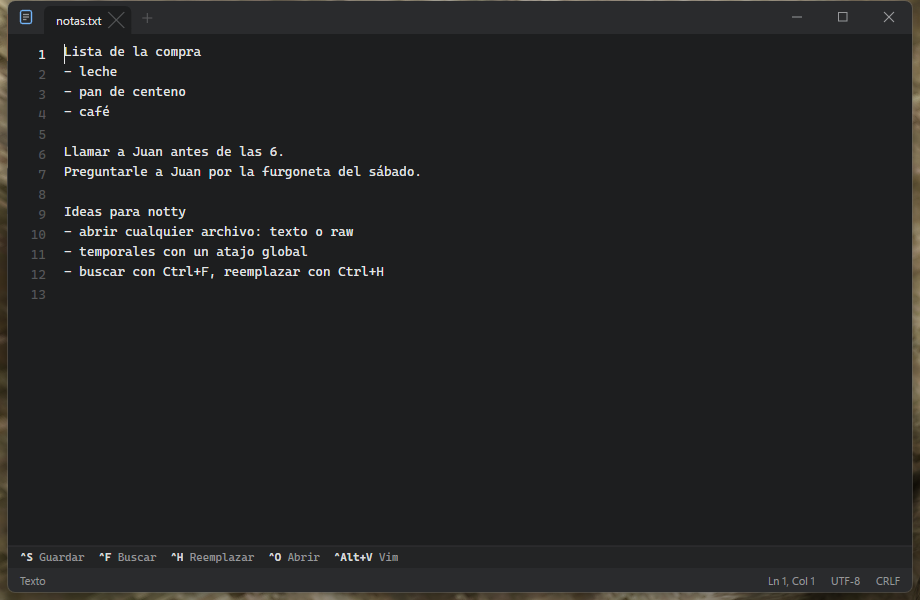
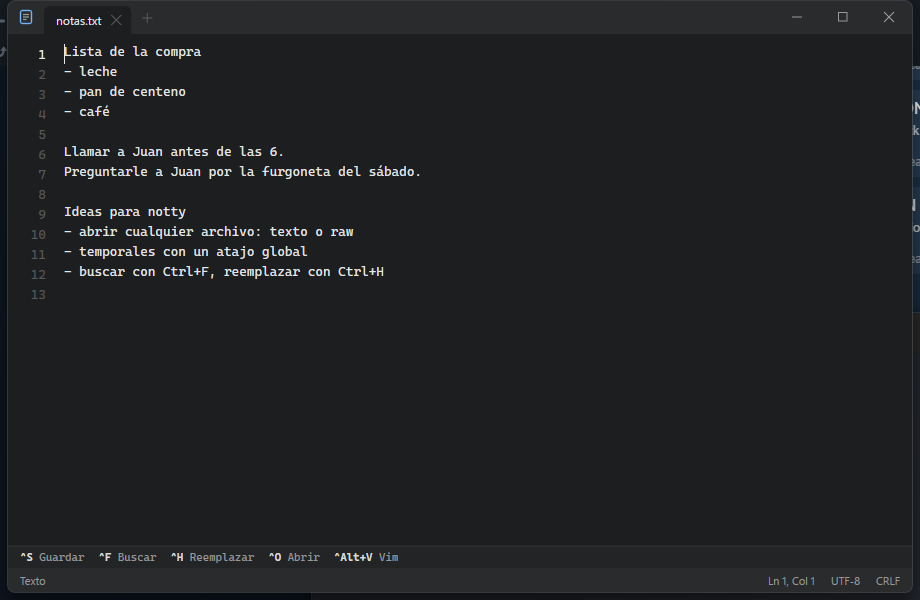
chore(ui): repaso visual contra la maqueta
Task 12 del plan: cargo test --workspace (234 tests), cargo clippy
--workspace --all-targets -- -D warnings y cargo build --release
--workspace limpios.

Arreglo encontrado en la revisión: la línea de comandos fusionada
(Zen) concatenaba Ln/Col, codificación y EOL sin separador «· » entre
el primer y el segundo campo, y dibujaba un separador sobrante fuera
del borde derecho (bucle en orden inverso con la condición `i > 0` en
vez de `i + 1 < fields.len()`, en draw_status_normal/render.rs).
Corregido y verificado con captura de Zen.

Escenarios capturados con tools/shot-app.ps1 y comparados a ojo contra
docs/mockups/ref/*.png, guardados en docs/mockups/app/<escenario>.png:
moderna-oscuro, moderna-claro, sucio, clasica, zen (separador
corregido), clickme, vim-normal, vim-insert, buscar, reemplazar,
ruta-sugerencias, ruta-nueva, raw, raw-solo-lectura, ajustes — los 15
de docs/mockups/ref/. Todos coinciden en posición, color y tamaño de
fuente salvo lo ya documentado en tareas anteriores (sombra de los
desplegables aproximada con un borde de 1px en vez de los 4 anillos
concéntricos de la maqueta; hex dibujado con aritmética de fuente
monoespaciada en vez de un IDWriteTextRenderer a medida).

DPI: probado forzando temporalmente dpi=144 (150%) en window.rs (dos
líneas, revertidas antes de este commit) — la ventana escala a
1380x600 exactos, sin nada borroso ni descolocado; revertido a
GetDpiForWindow real tras la prueba.
[…]

Changed region(s): [[0.0, 0.0, 0.8826, 1.0], [0.9739, 0.0, 1.0, 0.81], [0.9435, 0.84, 1.0, 1.0]]

diff --git a/crates/notty-ui/src/render.rs b/crates/notty-ui/src/render.rs
@@ -968,7 +968,7 @@ impl Renderer {
             let mut xr = r.right - layout::STATUS_PAD_X;
             for (i, field) in fields.iter().enumerate().rev() {
                 let w = self.measure(field, label_font);
-                if merged && i > 0 {
+                if merged && i + 1 < fields.len() {
                     let sep = "· ";
                     let sw = self.measure(sep, label_font);
                     xr -= sw;

diff --git a/docs/superpowers/plans/2026-09-25-notty-05b-ajuste-visual.md b/docs/superpowers/plans/2026-09-25-notty-05b-ajuste-visual.md
@@ -830,10 +830,10 @@ Compara con `ref/ajustes.png` (y abre la maqueta en el navegador → «Ajustes»
 
 ### Task 12: Repaso final contra todas las referencias
 
-- [ ] **Step 1:** `cargo test --workspace`, `cargo clippy --workspace --all-targets -- -D warnings`, `cargo build --release --workspace`: todo limpio.
-- [ ] **Step 2:** Captura la app en **cada** escenario de `docs/mockups/ref/` que la app ya soporta (todos menos los que dependen de dos archivos abiertos a la vez; para esos, abre un segundo archivo con `^o`) y compáralas una a una con la referencia. Arregla lo que no coincida. Guarda las capturas finales en `docs/mockups/app/<escenario>.png` para que el usuario pueda revisarlas.
-- [ ] **Step 3:** Prueba también con el escalado de Windows al 125 % o 150 % si puedes (o simula `dpi = 144` forzándolo temporalmente): nada borroso, nada descolocado.
-- [ ] **Step 4: Commit** `chore(ui): repaso visual contra la maqueta` con, en el cuerpo del mensaje, la lista de escenarios comparados y cualquier diferencia que quede y por qué.
+- [x] **Step 1:** `cargo test --workspace`, `cargo clippy --workspace --all-targets -- -D warnings`, `cargo build --release --workspace`: todo limpio.
+- [x] **Step 2:** Captura la app en **cada** escenario de `docs/mockups/ref/` que la app ya soporta (todos menos los que dependen de dos archivos abiertos a la vez; para esos, abre un segundo archivo con `^o`) y compáralas una a una con la referencia. Arregla lo que no coincida. Guarda las capturas finales en `docs/mockups/app/<escenario>.png` para que el usuario pueda revisarlas.
+- [x] **Step 3:** Prueba también con el escalado de Windows al 125 % o 150 % si puedes (o simula `dpi = 144` forzándolo temporalmente): nada borroso, nada descolocado.
+- [x] **Step 4: Commit** `chore(ui): repaso visual contra la maqueta` con, en el cuerpo del mensaje, la lista de escenarios comparados y cualquier diferencia que quede y por qué.
 
 ---
 
